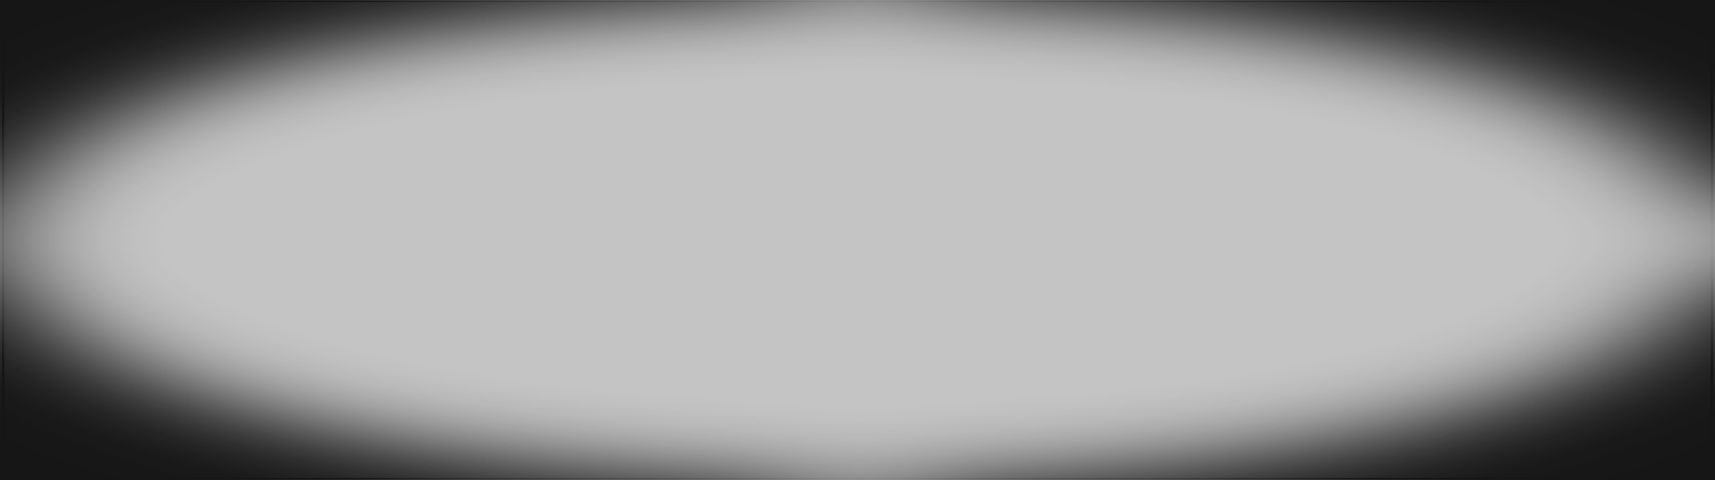
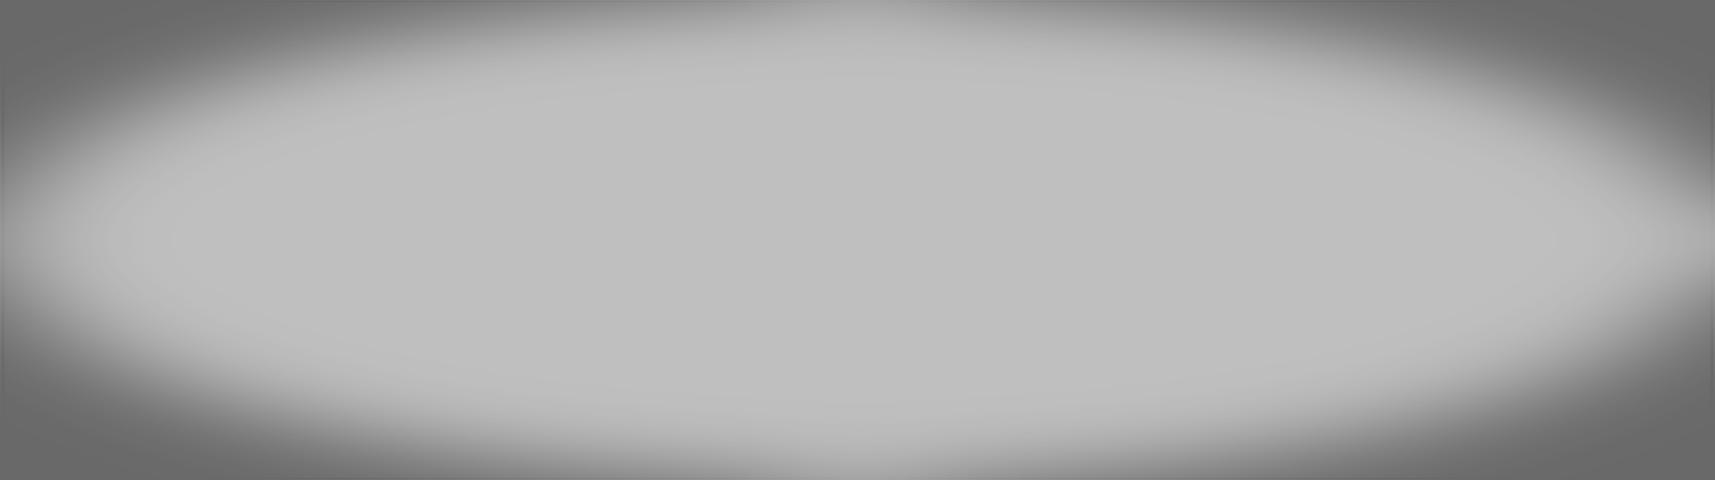
Change lab vignette and powerup position

Changed region(s): [[0.0, 0.0, 0.4945, 1.0], [0.5254, 0.5625, 1.0, 1.0], [0.5254, 0.0, 1.0, 0.4375]]

diff --git a/src/scenes/Forest.js b/src/scenes/Forest.js
@@ -159,7 +159,7 @@ class Forest extends Phaser.Scene {
 
         /////////////////////////////////////////////////////////////////////////////////////////////////////////
         // powerup
-        this.powerup = this.physics.add.sprite(game.config.width + 60, 0, 'powerup').setOrigin(0,0);
+        this.powerup = this.physics.add.sprite(game.config.width + 60, 30, 'powerup').setOrigin(0,0);
         this.powerup.setSize(100, 100, true);
         this.powerup.setOffset(0, 0);
         this.powerup.body.setAllowGravity(false);
@@ -453,7 +453,7 @@ class Forest extends Phaser.Scene {
             this.powerOnScreen = false;
             this.obstacleOnscreen = false;
             this.powerHit = true;
-            this.powerup = this.physics.add.sprite(game.config.width + 60, 100, 'powerup').setOrigin(0,0);
+            this.powerup = this.physics.add.sprite(game.config.width + 60, 30, 'powerup').setOrigin(0,0);
             this.powerOnVar = (Math.floor(this.timer.getElapsedSeconds() * 10)) + 5;
             this.scientist.alpha = 0.5;
             this.sound.play('powerOnsfx');
@@ -552,7 +552,7 @@ class Forest extends Phaser.Scene {
         }
 
         if(object == this.powerup){
-            this.powerup = this.physics.add.sprite(game.config.width, 0, 'powerup').setOrigin(0,0);
+            this.powerup = this.physics.add.sprite(game.config.width, 30, 'powerup').setOrigin(0,0);
             this.powerup.setSize(100, 100, true);
             this.powerup.setOffset(0, 0);
             this.powerup.body.setAllowGravity(false);
